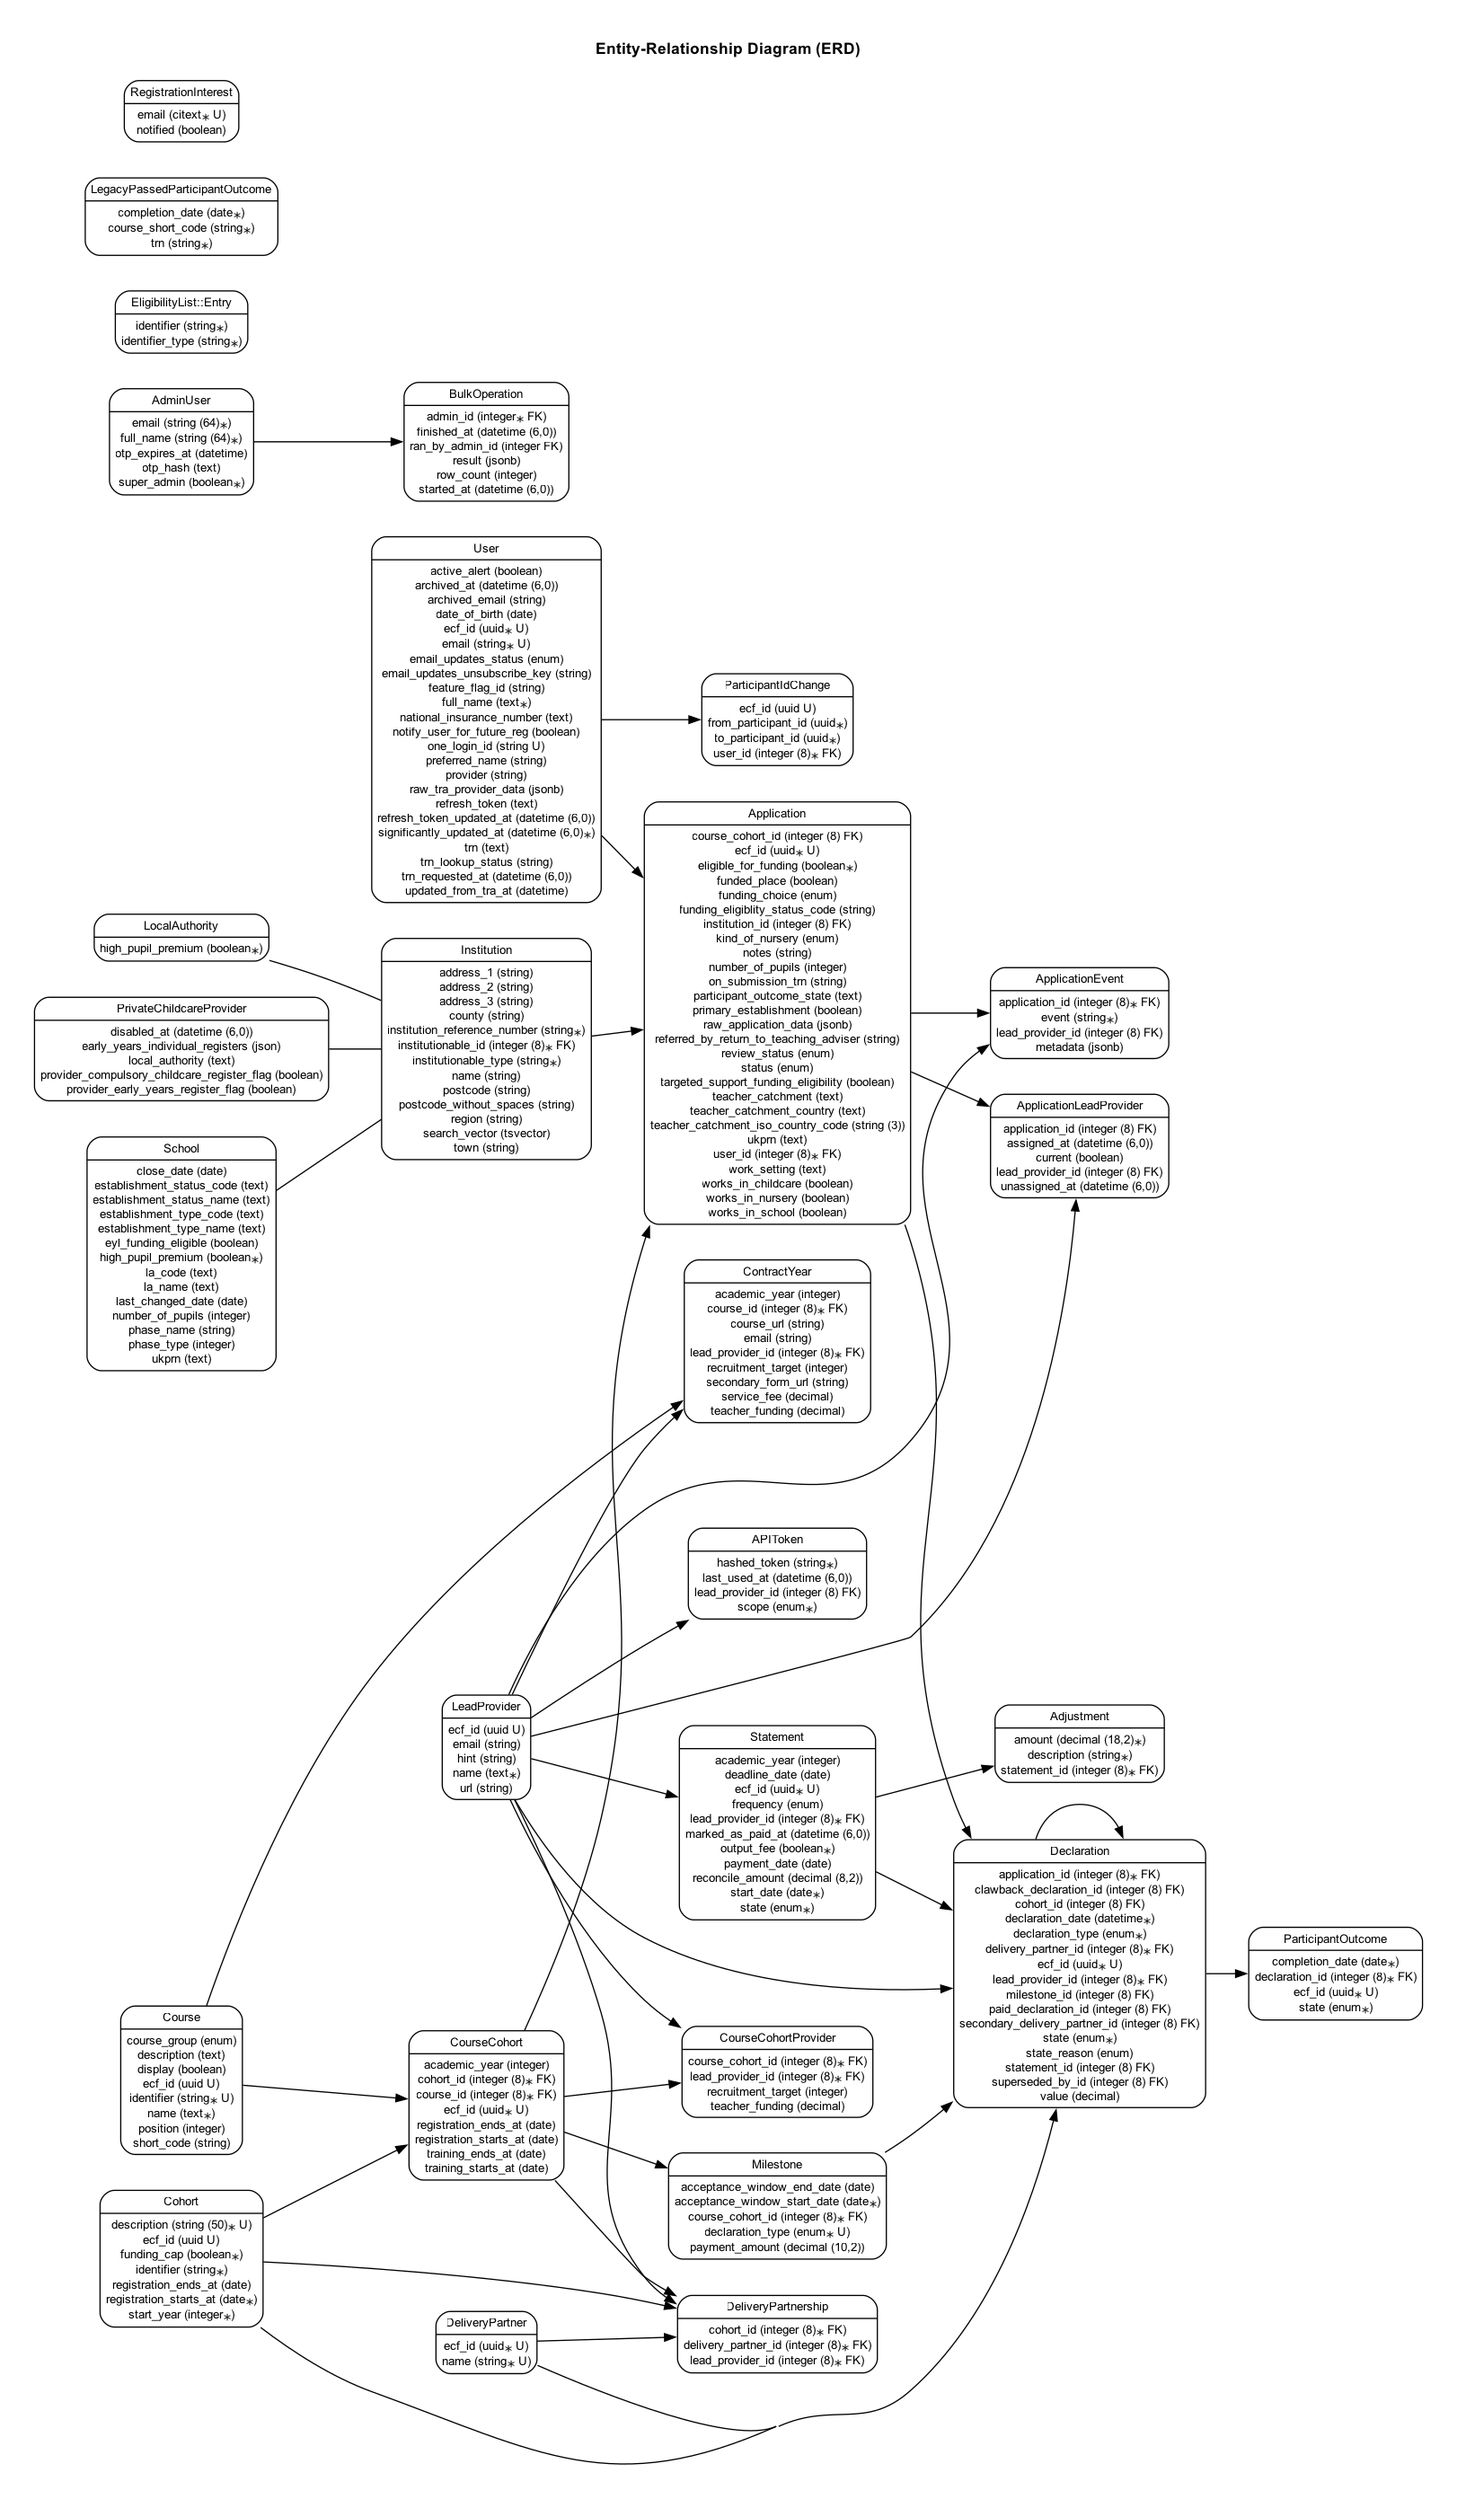
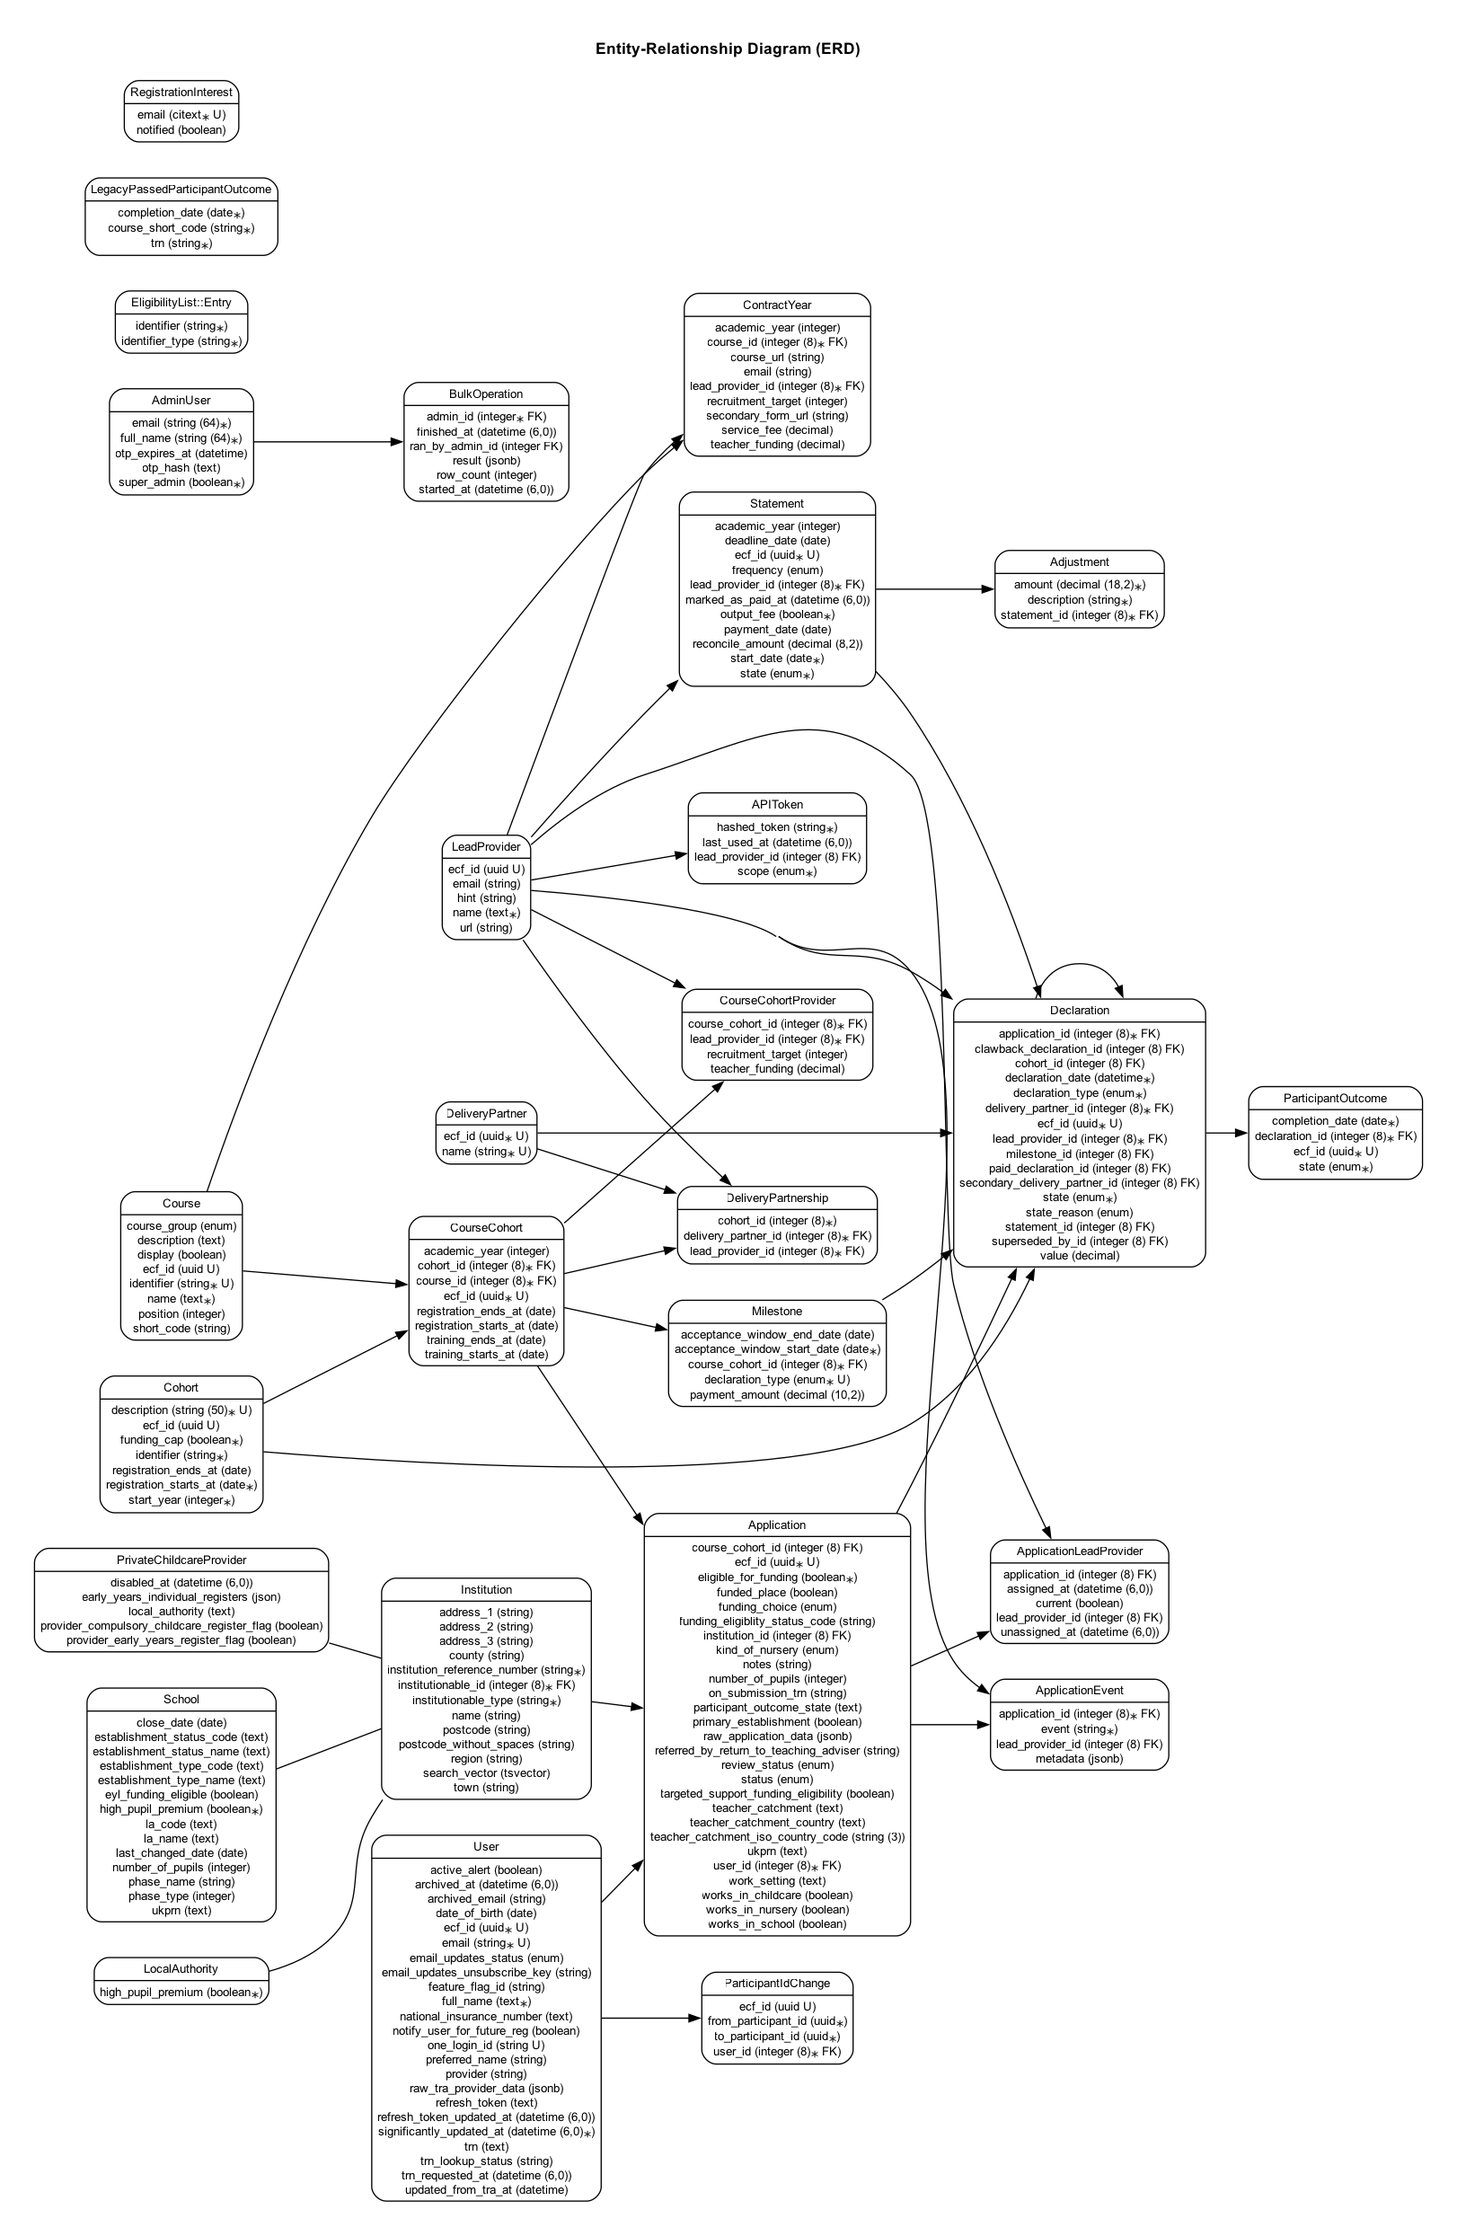
Remove cohort from delivery partnerships

diff --git a/db/migrate/20260810161000_remove_cohort_from_delivery_partnerships.rb b/db/migrate/20260810161000_remove_cohort_from_delivery_partnerships.rb
@@ -1,0 +1,57 @@
+class RemoveCohortFromDeliveryPartnerships < ActiveRecord::Migration[8.1]
+  disable_ddl_transaction!
+
+  OLD_UNIQUE_INDEX = "idx_on_delivery_partner_id_lead_provider_id_cohort__10d5da32cd".freeze
+
+  def up
+    unbackfilled = select_value("SELECT COUNT(*) FROM delivery_partnerships WHERE course_cohort_id IS NULL").to_i
+    raise "Cannot remove cohort_id: #{unbackfilled} delivery partnerships have not been backfilled" if unbackfilled.positive?
+
+    add_check_constraint :delivery_partnerships,
+                         "course_cohort_id IS NOT NULL",
+                         name: "delivery_partnerships_course_cohort_id_null",
+                         validate: false
+    validate_check_constraint :delivery_partnerships, name: "delivery_partnerships_course_cohort_id_null"
+    change_column_null :delivery_partnerships, :course_cohort_id, false
+    remove_check_constraint :delivery_partnerships, name: "delivery_partnerships_course_cohort_id_null"
+
+    remove_foreign_key :delivery_partnerships, :cohorts
+    remove_index :delivery_partnerships, name: OLD_UNIQUE_INDEX, algorithm: :concurrently
+    remove_index :delivery_partnerships, :cohort_id, algorithm: :concurrently
+    safety_assured { remove_column :delivery_partnerships, :cohort_id }
+  end
+
+  def down
+    add_reference :delivery_partnerships, :cohort, null: true, index: false, foreign_key: false
+
+    safety_assured do
+      execute <<~SQL.squish
+        UPDATE delivery_partnerships
+        SET cohort_id = course_cohorts.cohort_id
+        FROM course_cohorts
+        WHERE course_cohorts.id = delivery_partnerships.course_cohort_id
+      SQL
+
+      execute <<~SQL.squish
+        DELETE FROM delivery_partnerships duplicate
+        USING delivery_partnerships original
+        WHERE duplicate.delivery_partner_id = original.delivery_partner_id
+          AND duplicate.lead_provider_id = original.lead_provider_id
+          AND duplicate.cohort_id = original.cohort_id
+          AND duplicate.id > original.id
+      SQL
+    end
+
+    change_column_null :delivery_partnerships, :cohort_id, false
+    add_index :delivery_partnerships,
+              %i[delivery_partner_id lead_provider_id cohort_id],
+              unique: true,
+              name: OLD_UNIQUE_INDEX,
+              algorithm: :concurrently
+    add_index :delivery_partnerships, :cohort_id, algorithm: :concurrently
+    add_foreign_key :delivery_partnerships, :cohorts, validate: false
+    validate_foreign_key :delivery_partnerships, :cohorts
+
+    change_column_null :delivery_partnerships, :course_cohort_id, true
+  end
+end

diff --git a/spec/models/delivery_partnership_spec.rb b/spec/models/delivery_partnership_spec.rb
@@ -4,33 +4,21 @@ RSpec.describe DeliveryPartnership, type: :model do
   describe "relationships" do
     it { is_expected.to belong_to :delivery_partner }
     it { is_expected.to belong_to :lead_provider }
-    it { is_expected.to belong_to(:cohort).optional }
-    it { is_expected.to belong_to(:course_cohort).optional }
+    it { is_expected.to belong_to :course_cohort }
   end
 
   describe "validations" do
     it { is_expected.to validate_presence_of :delivery_partner_id }
     it { is_expected.to validate_presence_of :lead_provider_id }
-
-    it "requires either a cohort or course cohort" do
-      partnership = build(:delivery_partnership, cohort: nil, course_cohort: nil)
-
-      expect(partnership).not_to be_valid
-      expect(partnership.errors).to include(:cohort_id, :course_cohort_id)
-    end
+    it { is_expected.to validate_presence_of :course_cohort_id }
 
     describe "uniqueness" do
-      let(:delivery_partner) { create(:delivery_partner) }
-      let(:lead_provider) { create(:lead_provider) }
+      subject { described_class.new }
 
-      it "prevents duplicate course cohort partnerships" do
-        course_cohort = create(:course_cohort)
-        create(:delivery_partnership, delivery_partner:, lead_provider:, course_cohort:, cohort: nil)
+      before { create :delivery_partnership }
 
-        duplicate = build(:delivery_partnership, delivery_partner:, lead_provider:, course_cohort:, cohort: nil)
-
-        expect(duplicate).not_to be_valid
-        expect(duplicate.errors.of_kind?(:delivery_partner_id, :taken)).to be true
+      it "delivery partner must be unique for a given lead provider and course cohort" do
+        expect(subject).to validate_uniqueness_of(:delivery_partner_id).scoped_to(%i[lead_provider_id course_cohort_id])
       end
     end
   end

diff --git a/db/schema.rb b/db/schema.rb
@@ -312,15 +312,12 @@ ActiveRecord::Schema[8.1].define(version: 2026_08_11_140000) do
   end
 
   create_table "delivery_partnerships", force: :cascade do |t|
-    t.bigint "cohort_id"
-    t.bigint "course_cohort_id"
+    t.bigint "course_cohort_id", null: false
     t.datetime "created_at", null: false
     t.bigint "delivery_partner_id", null: false
     t.bigint "lead_provider_id", null: false
     t.datetime "updated_at", null: false
-    t.index ["cohort_id"], name: "index_delivery_partnerships_on_cohort_id"
     t.index ["course_cohort_id"], name: "index_delivery_partnerships_on_course_cohort_id"
-    t.index ["delivery_partner_id", "lead_provider_id", "cohort_id"], name: "idx_on_delivery_partner_id_lead_provider_id_cohort__10d5da32cd", unique: true
     t.index ["delivery_partner_id", "lead_provider_id", "course_cohort_id"], name: "idx_delivery_partnerships_on_partner_provider_course_cohort", unique: true
     t.index ["delivery_partner_id"], name: "index_delivery_partnerships_on_delivery_partner_id"
     t.index ["lead_provider_id"], name: "index_delivery_partnerships_on_lead_provider_id"
@@ -621,8 +618,7 @@ ActiveRecord::Schema[8.1].define(version: 2026_08_11_140000) do
   add_foreign_key "declarations", "delivery_partners"
   add_foreign_key "declarations", "delivery_partners", column: "secondary_delivery_partner_id"
   add_foreign_key "declarations", "lead_providers"
-  add_foreign_key "delivery_partnerships", "cohorts"
-  add_foreign_key "delivery_partnerships", "course_cohorts", validate: false
+  add_foreign_key "delivery_partnerships", "course_cohorts"
   add_foreign_key "delivery_partnerships", "delivery_partners"
   add_foreign_key "delivery_partnerships", "lead_providers"
   add_foreign_key "milestones", "course_cohorts"

diff --git a/spec/models/delivery_partner_spec.rb b/spec/models/delivery_partner_spec.rb
@@ -94,7 +94,6 @@ RSpec.describe DeliveryPartner, type: :model do
   describe "relationships" do
     it { is_expected.to have_many(:delivery_partnerships) }
     it { is_expected.to have_many(:lead_providers).through(:delivery_partnerships) }
-    it { is_expected.to have_many(:cohorts).through(:delivery_partnerships) }
     it { is_expected.to have_many(:course_cohorts).through(:delivery_partnerships) }
   end
 
@@ -112,16 +111,13 @@ RSpec.describe DeliveryPartner, type: :model do
   describe "#course_cohorts_for_lead_provider" do
     subject { delivery_partner.course_cohorts_for_lead_provider(lead_provider) }
 
-    let(:delivery_partner) do
-      create(:delivery_partner, lead_providers: {
-        course_cohort => lead_provider,
-        other_course_cohort => other_lead_provider,
-      })
-    end
-    let(:lead_provider) { create(:lead_provider) }
-    let(:other_lead_provider) { create(:lead_provider) }
-    let(:course_cohort) { create(:course_cohort) }
-    let(:other_course_cohort) { create(:course_cohort, cohort: create(:cohort, registration_starts_at: Date.new(2024, 5, 1))) }
+    let(:delivery_partner) { create :delivery_partner, lead_providers: { course_cohort => lead_provider, other_course_cohort => other_lead_provider } }
+    let(:lead_provider) { create :lead_provider }
+    let(:other_lead_provider) { create :lead_provider }
+    let(:cohort) { create :cohort }
+    let(:other_cohort) { create :cohort, registration_starts_at: Date.new(2024, 5, 1) }
+    let(:course_cohort) { create(:course_cohort, cohort:) }
+    let(:other_course_cohort) { create(:course_cohort, cohort: other_cohort) }
 
     it { is_expected.to eq [course_cohort] }
   end

diff --git a/app/models/delivery_partnership.rb b/app/models/delivery_partnership.rb
@@ -1,17 +1,10 @@
 class DeliveryPartnership < ApplicationRecord
   belongs_to :delivery_partner
   belongs_to :lead_provider
-  belongs_to :cohort, optional: true
-  belongs_to :course_cohort, optional: true
+  belongs_to :course_cohort
 
   validates :delivery_partner_id, presence: true
   validates :lead_provider_id, presence: true
-  validates :cohort_id, presence: true, unless: :course_cohort_id?
-  validates :course_cohort_id, presence: true, unless: :cohort_id?
-  validates :delivery_partner_id,
-            uniqueness: { scope: %i[lead_provider_id course_cohort_id] },
-            if: :course_cohort_id?
-  validates :delivery_partner_id,
-            uniqueness: { scope: %i[lead_provider_id cohort_id] },
-            unless: :course_cohort_id?
+  validates :course_cohort_id, presence: true
+  validates :delivery_partner_id, uniqueness: { scope: %i[lead_provider_id course_cohort_id] }
 end

diff --git a/spec/features/admin/delivery_partnerships_spec.rb b/spec/features/admin/delivery_partnerships_spec.rb
@@ -98,7 +98,6 @@ RSpec.feature "NPQ Separation Admin Delivery Partnerships", type: :feature do
       create(:delivery_partnership,
              delivery_partner:,
              lead_provider:,
-             cohort:,
              course_cohort: first_course_cohort)
 
       visit edit_admin_delivery_partner_delivery_partnerships_path(delivery_partner)
@@ -111,7 +110,6 @@ RSpec.feature "NPQ Separation Admin Delivery Partnerships", type: :feature do
 
       expect(page).to have_current_path(admin_delivery_partners_path)
       expect(delivery_partner.course_cohorts.reload).to contain_exactly(first_course_cohort, second_course_cohort)
-      expect(delivery_partner.delivery_partnerships.find_by(course_cohort: second_course_cohort).cohort_id).to be_nil
     end
 
     scenario "assigning a course cohort when another delivery partner has a similar name" do

diff --git a/spec/features/admin/cohorts_spec.rb b/spec/features/admin/cohorts_spec.rb
@@ -44,7 +44,6 @@ RSpec.feature "Managing cohorts", :ecf_api_disabled, type: :feature do
     end
 
     scenario "creation" do
-      partnerships = create_list(:delivery_partnership, 3, cohort: Cohort.order_by_latest.first)
       visit_index
       click_on new_button_text
 
@@ -69,7 +68,6 @@ RSpec.feature "Managing cohorts", :ecf_api_disabled, type: :feature do
       expect(cohort.start_year).to be(2029)
       expect(cohort.funding_cap).to be(true)
       expect(cohort.registration_starts_at).to eq(Date.new(2029, 3, 2))
-      expect(cohort.delivery_partnerships.pluck(:delivery_partner_id, :lead_provider_id)).to eq(partnerships.pluck(:delivery_partner_id, :lead_provider_id))
     end
 
     scenario "editing" do

diff --git a/app/models/delivery_partner.rb b/app/models/delivery_partner.rb
@@ -6,7 +6,6 @@ class DeliveryPartner < ApplicationRecord
 
   has_many :delivery_partnerships
   has_many :lead_providers, through: :delivery_partnerships
-  has_many :cohorts, through: :delivery_partnerships
   has_many :course_cohorts, through: :delivery_partnerships
 
   accepts_nested_attributes_for :delivery_partnerships, allow_destroy: true
@@ -32,7 +31,6 @@ class DeliveryPartner < ApplicationRecord
     delivery_partnerships
       .select { |delivery_partnership| delivery_partnership.lead_provider_id == lead_provider.id }
       .map(&:course_cohort)
-      .compact
       .uniq
   end
 end

diff --git a/spec/factories/delivery_partners.rb b/spec/factories/delivery_partners.rb
@@ -23,7 +23,7 @@ FactoryBot.define do
 
         Array.wrap(lead_providers).each do |lead_provider|
           if LeadProvider.where(id: lead_provider.id).exists?
-            delivery_partner.delivery_partnerships.create! lead_provider:, cohort: course_cohort.cohort, course_cohort:
+            delivery_partner.delivery_partnerships.create! lead_provider:, course_cohort:
           end
         end
       end

diff --git a/spec/models/cohort_spec.rb b/spec/models/cohort_spec.rb
@@ -15,10 +15,6 @@ RSpec.describe Cohort, type: :model do
 
   subject { cohort }
 
-  describe "relationships" do
-    it { is_expected.to have_many(:delivery_partnerships) }
-  end
-
   describe "validations" do
     it { is_expected.to validate_presence_of(:registration_starts_at) }
     it { is_expected.to allow_value(%w[true false]).for(:funding_cap).with_message("Choose true or false for funding cap") }

diff --git a/app/models/cohort.rb b/app/models/cohort.rb
@@ -2,8 +2,6 @@ class Cohort < ApplicationRecord
   before_validation :set_start_year
   before_validation :set_identifier
 
-  has_many :delivery_partnerships, dependent: :destroy
-  has_many :delivery_partners, through: :delivery_partnerships
   has_many :course_cohorts, dependent: :destroy
   has_many :courses, through: :course_cohorts
   has_many :schedules, through: :course_cohorts

diff --git a/app/models/lead_provider.rb b/app/models/lead_provider.rb
@@ -18,10 +18,6 @@ class LeadProvider < ApplicationRecord
 
   scope :alphabetical, -> { order(name: :asc) }
 
-  def delivery_partners_for_cohort(cohort)
-    delivery_partners.where(delivery_partnerships: { cohort: })
-  end
-
   def delivery_partners_for_course_cohort(course_cohort:)
     delivery_partners.where(delivery_partnerships: { course_cohort: })
   end
